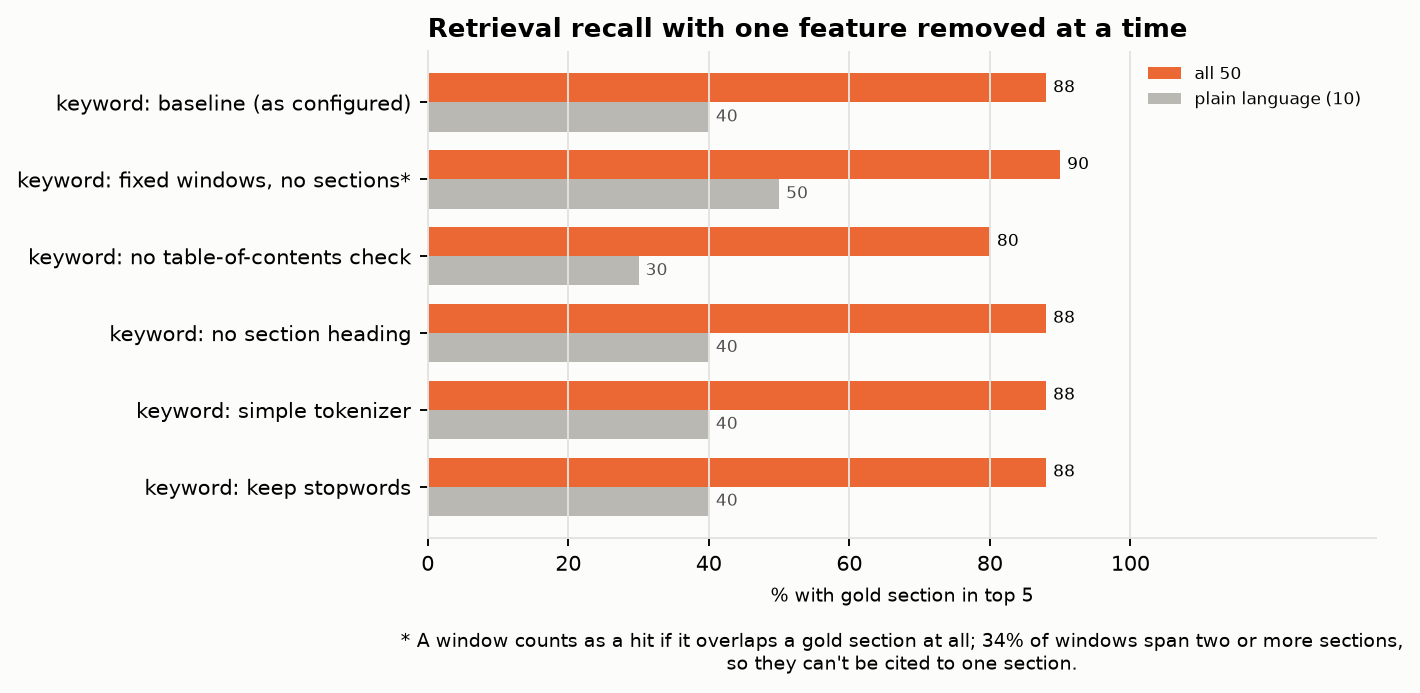
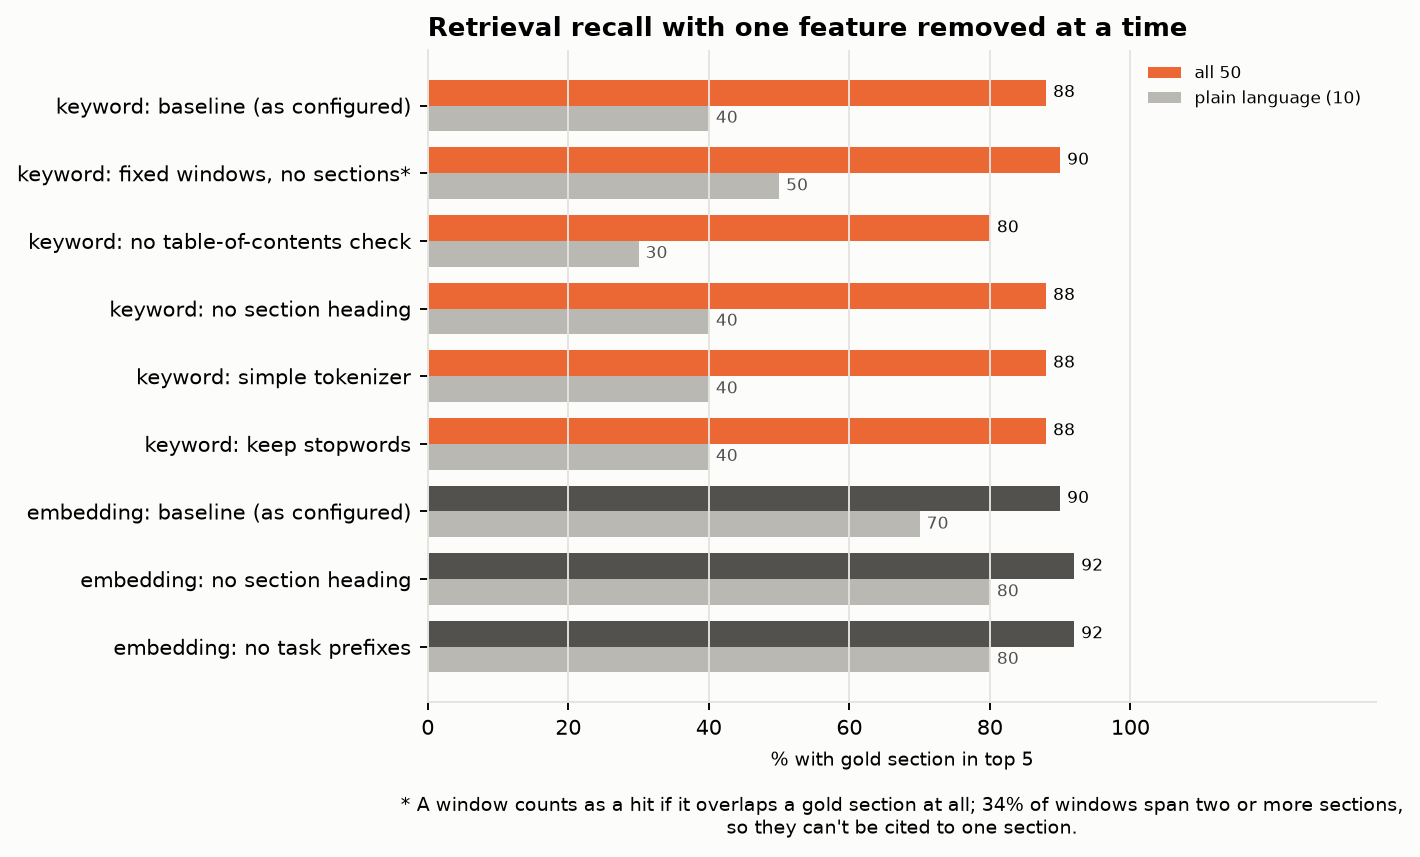
Fix sections_top5 drift test; add sweep, monitoring and feature-ablation results

Changed region(s): [[0.0, 0.0909, 0.9915, 0.9697], [0.3099, 0.0, 0.9606, 0.1515], [0.7746, 0.7576, 0.8056, 0.8788]]

diff --git a/src/policy_rag/monitor.py b/src/policy_rag/monitor.py
@@ -20,7 +20,7 @@ Steps:
   2. Control: split the reference in two at random and run the same drift test. That is the false-alarm level with
      these sample sizes.
   3. Drift: reference = the evaluated questions, current = a traffic sample. Evidently's DataDriftPreset (K-S test
-     for numeric columns, chi-square/Z-test for has_code at these sizes) per column; dataset drift if at least half
+     for numeric columns, including the few-valued sections_top5; Z-test for has_code) per column; dataset drift if at least half
      the columns drift, so one noisy signal doesn't raise an alarm.
   4. Flags: current queries that fall below the reference's 10th percentile on at least two useful signals go to a
      review list (one signal alone fires too often to be worth a reviewer's time). Those
@@ -93,7 +93,11 @@ def validity(ref: pd.DataFrame, qs: pd.DataFrame, idx: Index) -> dict:
 
 def drift(ref: pd.DataFrame, cur: pd.DataFrame) -> tuple[dict, object]:
     dd = DataDefinition(numerical_columns=NUMERIC, categorical_columns=["has_code"])
-    snap = Report([DataDriftPreset()]).run(current_data=Dataset.from_pandas(cur, data_definition=dd),
+    # sections_top5 takes only the values 1-5, so Evidently would pick chi-square for it. A value present in one
+    # sample and absent from the other gives an expected count of zero and p ~ 0: the control split flagged it at
+    # p = 2.5e-8. It is ordinal, so test it with K-S like the other numeric signals.
+    preset = DataDriftPreset(per_column_method={"sections_top5": "ks"})
+    snap = Report([preset]).run(current_data=Dataset.from_pandas(cur, data_definition=dd),
                                            reference_data=Dataset.from_pandas(ref, data_definition=dd))
     out = {"columns": {}}
     for m in snap.dict()["metrics"]:

diff --git a/README.md b/README.md
@@ -180,23 +180,23 @@ labeling a fresh sample before trusting the judge's numbers again.
 In a RAG system the features are how documents and queries are represented for search, plus the signals used to
 watch it in use. Each choice below was made for a stated reason. `policy-rag ablate` then removes one at a time
 and re-scores retrieval on the same 50 answerable questions, so the "impact" column is measured rather than
-assumed. Keyword ablations need no model and are reported here. The embedding ablations re-embed the corpus and
-need Ollama; they run with `policy-rag ablate`.
+assumed. Keyword ablations need no model; embedding ablations re-embed the corpus with Ollama (about a minute
+each).
 
 ![Retrieval recall with one feature removed at a time](reports/figures/ablation.png)
 
-| Feature | What | Why | Impact when removed (keyword search, top 5) |
+| Feature | What | Why | Impact when removed (top 5 unless noted) |
 |---|---|---|---|
 | Section-aware chunks | Chunks follow the manuals' own sections, split at about 300 words | A citation must point to a section a reviewer can look up | Section-blind 300-word windows score 90% vs 88%, but that scoring is lenient (a window counts if it touches the gold section), and 34% of windows span two or more sections, so the answer can't be cited to one. **Kept for citability, not recall.** |
 | Table-of-contents check on headings | A line is a heading only if it is one of the next few contents entries | Cross-references ("see 220.2 - ...") and in-paragraph lists of titles look like headings | **88% -> 80%**: 4 questions lost, none gained (95% CI -16 to -2 points); plain language 40% -> 30%. Without it the parser finds 311 sections instead of 304, splitting and mislabeling real ones. The largest measured effect. |
 | Boilerplate removal | Drop running headers, page labels, contents lines, revision history | Text repeated on every page inflates term counts and fills chunks with noise | Not ablated on its own; heading detection depends on it. |
-| Section heading in the chunk text | "Reporting of Service Units With HCPCS. ..." | The heading names the topic in the manuals' own terms | No change at top 5; top 1 76% -> 74%. |
+| Section heading in the chunk text | "Reporting of Service Units With HCPCS. ..." | The heading names the topic in the manuals' own terms | Keyword: no change at top 5; top 1 76% -> 74%. Embedding: top 5 90% -> 92%, but top 1 drops **70% -> 58%** (MRR 0.79 -> 0.74). The heading's value is putting the right section first. |
 | Tokenizer that keeps "220.2", "g-codes" | Dotted numbers and hyphenated terms stay one token | Section numbers and codes are exact-match evidence | No change at top 5; top 10 96% -> 92%. Few test questions quote a section number, so this set can't show much. |
 | Stopwords (incl. "may", "must", "shall") | Removed before keyword scoring | Common words carry no topic | None: 1 question lost, 1 gained. |
-| Embedding task prefixes | `search_query:` / `search_document:` for `nomic-embed-text` | The model was trained with them | Embedding ablation, needs Ollama. |
+| Embedding task prefixes | `search_query:` / `search_document:` for `nomic-embed-text` | The model was trained with them | Embedding search did slightly *better* without them: 90% -> 92% (1 question gained, none lost; 95% CI 0 to +6), top 1 70% -> 74%, plain language 70% -> 80%. Within noise; top 1 and top 5 both rose, top 3 was unchanged and top 10 fell (96% -> 94%). |
 | Reciprocal rank fusion | Combine keyword and embedding rankings by rank, not score | BM25 scores and cosine similarities are on different scales; ranks need no calibration | Hybrid 92% vs BM25 88% and dense 90% (vs BM25: +4 points, 95% CI 0 to +10). |
 | Chunk size and overlap | 300 words, 40 overlap | A first guess | Tested by `policy-rag sweep`. |
-| Monitoring signals | 8 label-free per-query features (see [MLOps](#mlops-mlflow-and-evidently)) | No labels exist in use | Each must predict a retrieval miss or out-of-scope question (AUC >= 0.65) before it can flag a query. |
+| Monitoring signals | 8 label-free per-query features (see [MLOps](#mlops-mlflow-and-evidently)) | No labels exist in use | Each must predict a retrieval miss or out-of-scope question (AUC >= 0.65) before it can flag a query. All six confidence signals pass; the best embedding match is strongest (AUC 0.89 for misses, 0.97 for out-of-scope). |
 
 **What this changes.** The feature that mattered was structural: getting section boundaries right. Token-level
 choices (heading, tokenizer, stopwords) didn't move top-5 recall on this test set, so they stay as sensible
@@ -205,6 +205,12 @@ problem: a reviewer writes "sign off on the therapy plan" where the manual says 
 next feature to try is a small glossary that maps everyday terms to the manuals' vocabulary, added to the query
 before keyword search. It gets the same treatment: an ablation on the plain-language questions, after that set
 grows beyond 10.
+
+On the embedding side, two documented practices didn't pay off on top-5 recall. The section heading stays,
+because its value is at rank 1 (70% vs 58%), and hybrid fusion rewards rank. Dropping the task prefixes gained one
+question, which the selection rule treats as noise (the interval touches zero). It is still the cheapest candidate
+for the next eval run: a one-line change, to be judged through hybrid retrieval and the answers, not embedding
+recall alone.
 
 ## MLOps: MLflow and Evidently
 
@@ -267,7 +273,7 @@ HTML report as an artifact:
 3. **Tests drift** between the evaluated questions (reference) and a traffic sample (current;
    `eval/traffic_sample.jsonl` holds 30 unlabeled queries, mostly everyday wording, including topics such as
    prior authorization, DME rental and hospice that these chapters don't cover). Evidently's `DataDriftPreset`
-   picks the test per column (K-S for continuous signals, chi-square or Z-test for few-valued ones). The dataset
+   picks the test per column (K-S for the numeric signals, a Z-test for `has_code`; `sections_top5` is forced to K-S, see the control result below). The dataset
    counts as drifted only when at least half the signals drift: with 8 signals at p < 0.05, one false alarm per run
    is likely.
 4. **Builds a review queue** (`reports/monitoring/review_queue.csv`): traffic queries that fall past the reference's
@@ -277,18 +283,84 @@ That loop is how the system adapts: monitor -> review flagged queries -> add the
 `sweep` and `eval`, and the eval-set hash records that the benchmark changed. It deliberately stops short of
 automatic retraining or re-chunking: with no labels on live queries, an automatic change could only optimize a proxy.
 
-### Reading the sweep and monitoring figures
+### Results: retrieval sweep
 
-- **`reports/figures/sweep.png`**: recall at 5 for each chunk size and overlap, one line per retriever, for all
-  answerable questions (left) and plain-language ones (right). The selection rule reads the left panel. The right
-  panel is the failure mode from the results above: a setting that wins overall while losing plain-language recall
-  would be the wrong trade, and the tie-break is there to catch it.
-- **`reports/figures/monitoring_signals.png`**: each signal's AUC for a retrieval miss and for an out-of-scope
-  question on the labeled set. Only signals past the dashed 0.65 line are used to flag queries; the rest are
-  reported but don't raise flags.
-- **`reports/figures/monitoring.png`**: four signals for the evaluated questions and the traffic sample, with
-  Evidently's drift p-value for each. Read it alongside the control (half the eval set against the other half) in
-  `monitor.json`: a signal that drifts in the control at this sample size is not evidence on its own.
+![Recall at 5 by chunk size, overlap and retriever](reports/figures/sweep.png)
+
+*What it shows:* 15 settings (5 chunkings x 3 retrievers). Top-5 recall ranges from 88% to 94%, so no setting
+differs from another by more than three questions. Two patterns stand out:
+
+- **Bigger chunks help everyday wording.** Plain-language recall for embedding search rises from 70% at 300 words
+  to 80% at 800, and for hybrid from 60% to 70%.
+- **Smaller chunks rank the right section first more often.** At 150 words, hybrid puts the gold section at
+  rank 1 for 82% of questions (76% now), with MRR 0.86 (0.83 now), on half the context (about 720 words vs 1,390).
+
+Applying the rule: hybrid and keyword search at 800 words need more than the 3,000-word budget and drop out. The
+best remaining setting is 800-word chunks with embedding search, at 94%. That is +2 points over the current
+setting, with a 95% interval of -6 to +12, so the rule says **keep 300 words / 40 overlap / hybrid**. The current
+setting also reproduced its eval result exactly (92%).
+
+*What it decides:* the configuration stays. The two patterns become hypotheses for the next sweep, once the
+plain-language set is larger than ten questions:
+
+- **Larger chunks for everyday questions.** These double the text the model reads, so they need an answer-level
+  check that faithfulness holds, not just recall.
+- **150-word chunks.** These free half the context budget, which could go to more excerpts.
+
+### Results: monitoring
+
+![AUC of each signal for retrieval misses and out-of-scope questions](reports/figures/monitoring_signals.png)
+
+**Which signals earn a place.** All six confidence signals clear the 0.65 bar for at least one failure type.
+
+- `dense_top1` (the best embedding match) is the strongest on both: AUC 0.89 for retrieval misses, 0.97 for
+  out-of-scope questions.
+- Out-of-vocabulary share and the best keyword score separate out-of-scope questions well (0.92, 0.95) but
+  retrieval misses barely (0.64).
+- Keyword/embedding agreement and section scatter track misses (0.86, 0.87).
+
+The miss column rests on only 4 misses, so read it as a ranking, not a measurement. Decision: the best embedding
+match plus agreement is the confidence pair to build on, including the "decline when unsure" guard proposed above.
+
+**The control caught a bug.** On its first run, the control (two random halves of the same eval questions)
+flagged `sections_top5` at p = 2.5e-8, which is impossible for a random split. The cause: the column only takes
+the values 1-5, so Evidently tested it with chi-square. A value seen in one half and not the other gives an
+expected count of zero and a p-value near zero. The column is ordinal, so it is now tested with K-S like the other
+signals. After the fix, the control shows no drift on any signal (drift share 0), and the traffic result is
+unchanged (2 of 8 signals). Without the control, that artifact would have counted toward a drift alarm.
+
+![Signals for the evaluated questions and the traffic sample](reports/figures/monitoring.png)
+
+**Drift.** The 30 traffic queries are shorter than the eval questions (10.7 vs 14.1 words) and rarely contain a
+code (7% vs 18%). Keyword and embedding search agree less on them (0.26 vs 0.42 overlap in the top 5).
+
+- Two of eight signals drift: length (p = 0.01) and the best keyword score (p = 0.03).
+- The two strongest signals are borderline: best embedding match p = 0.065, agreement p = 0.069.
+- That is a drift share of 25%, below the 50% rule, so **no dataset alarm**.
+
+Five of the six confidence signals moved toward lower confidence. The exception is out-of-vocabulary share, because everyday words appear in the manuals too. Still, 30 queries is too few for the rule to call it. The keyword
+score also partly measures length: BM25 scores grow with query terms, and in the traffic sample it correlates
+with length (Spearman 0.34). Part of its drift just restates "queries got shorter."
+
+**Review queue.** 2 of 30 queries were flagged, both out of scope: the hospice election period (3 low signals) and
+the Part D late-enrollment penalty (2). No in-scope query was flagged. Out-of-scope questions that share therapy
+vocabulary (Medicare Advantage prior authorization for PT, telehealth PT, home-health therapy) were not flagged:
+the words match, so retrieval looks confident. Those are left to the answer step's decline (12 of 12 in the eval),
+which `monitor --answers` tracks as an abstain rate.
+
+*What it decides:*
+
+- At this volume the review queue is the useful output, not the dataset alarm.
+- Next changes:
+  1. Normalize the keyword score by the number of query terms, so it measures match quality rather than length.
+  2. With real traffic, test windows of a few hundred queries, where the drift tests have power.
+  3. Track the abstain rate for topic-adjacent out-of-scope questions.
+
+### Reproducibility
+
+Rerunning the full eval (answers, judge, calibration) reproduced every metric, and all 37 hand labels matched
+the regenerated answers word for word. Generation runs at temperature 0, so labels stay valid across reruns as
+long as the prompt and model hashes in MLflow are unchanged.
 
 Outputs: `reports/sweep.json`, `reports/figures/sweep.png`, `reports/monitoring/monitor.json`,
 `reports/figures/monitoring.png`; everything is also in MLflow (`uv run mlflow ui --backend-store-uri sqlite:///mlflow.db`).
